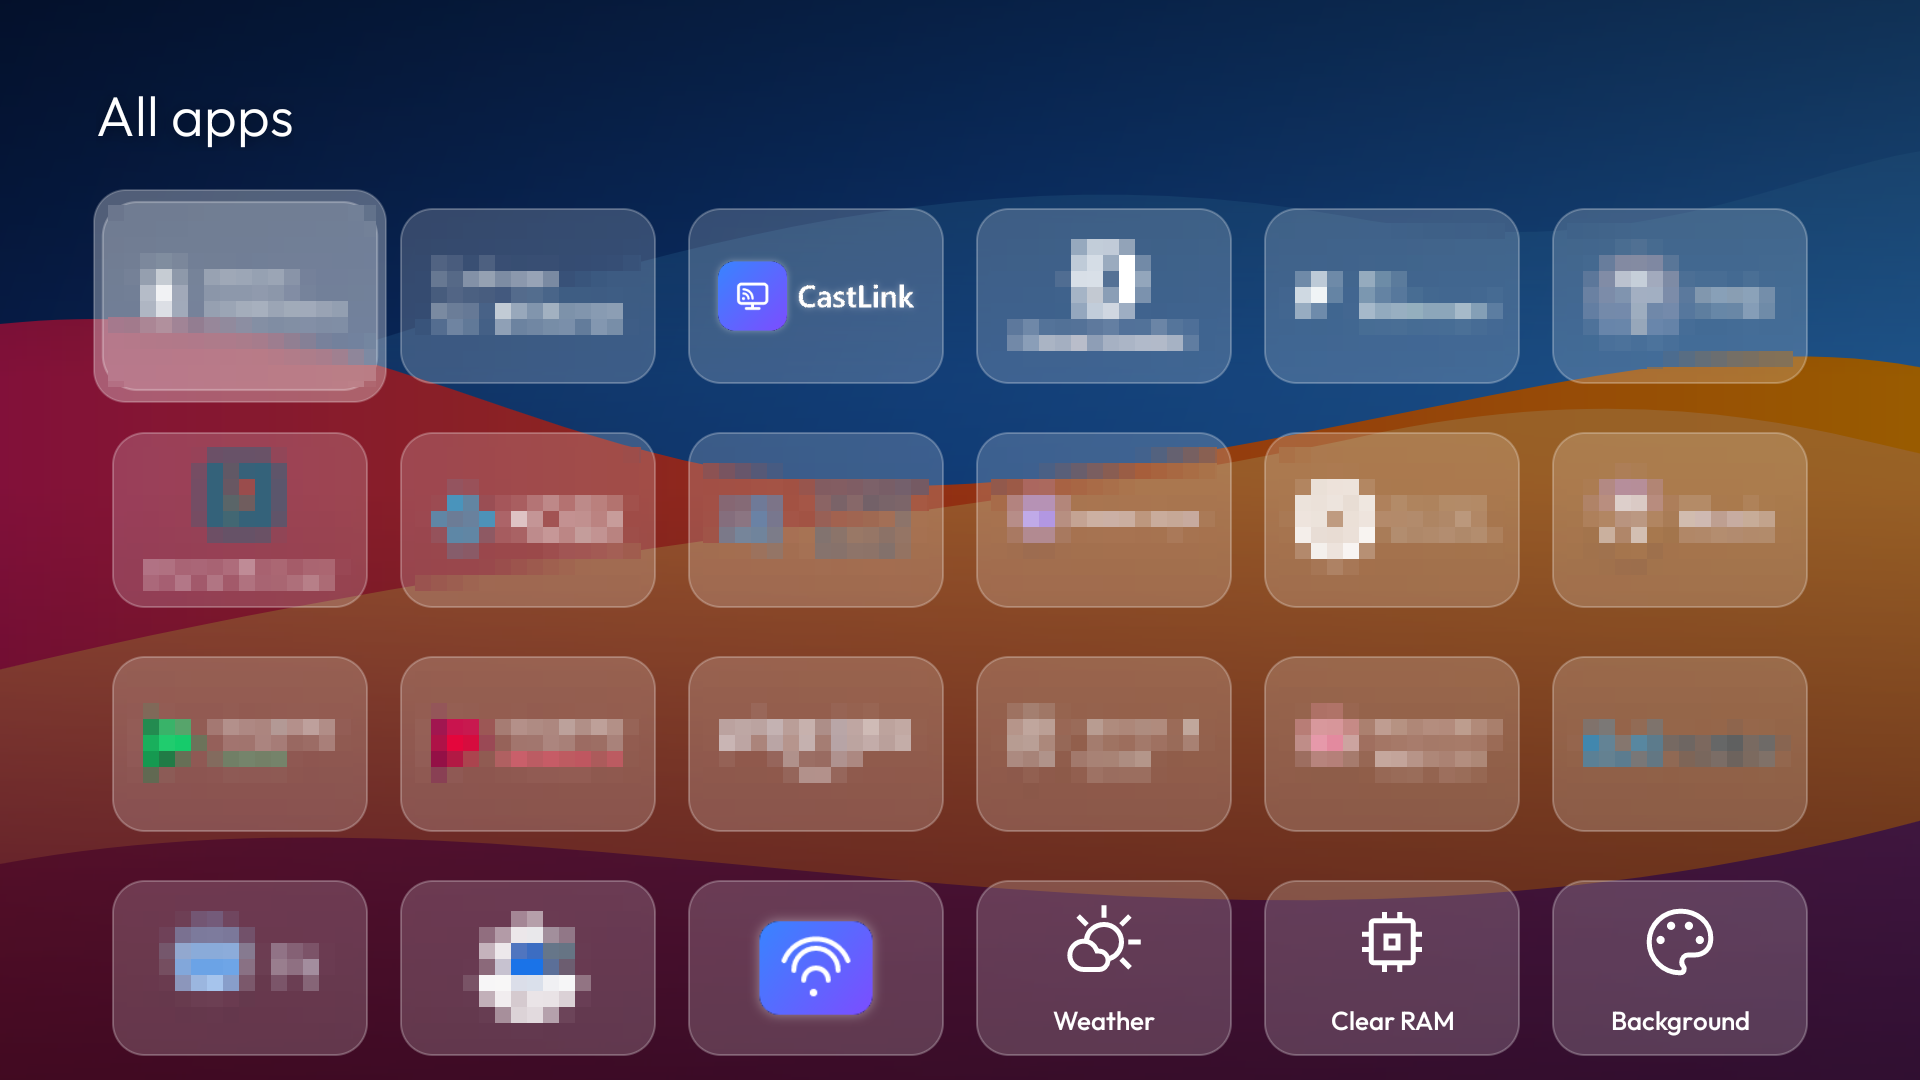
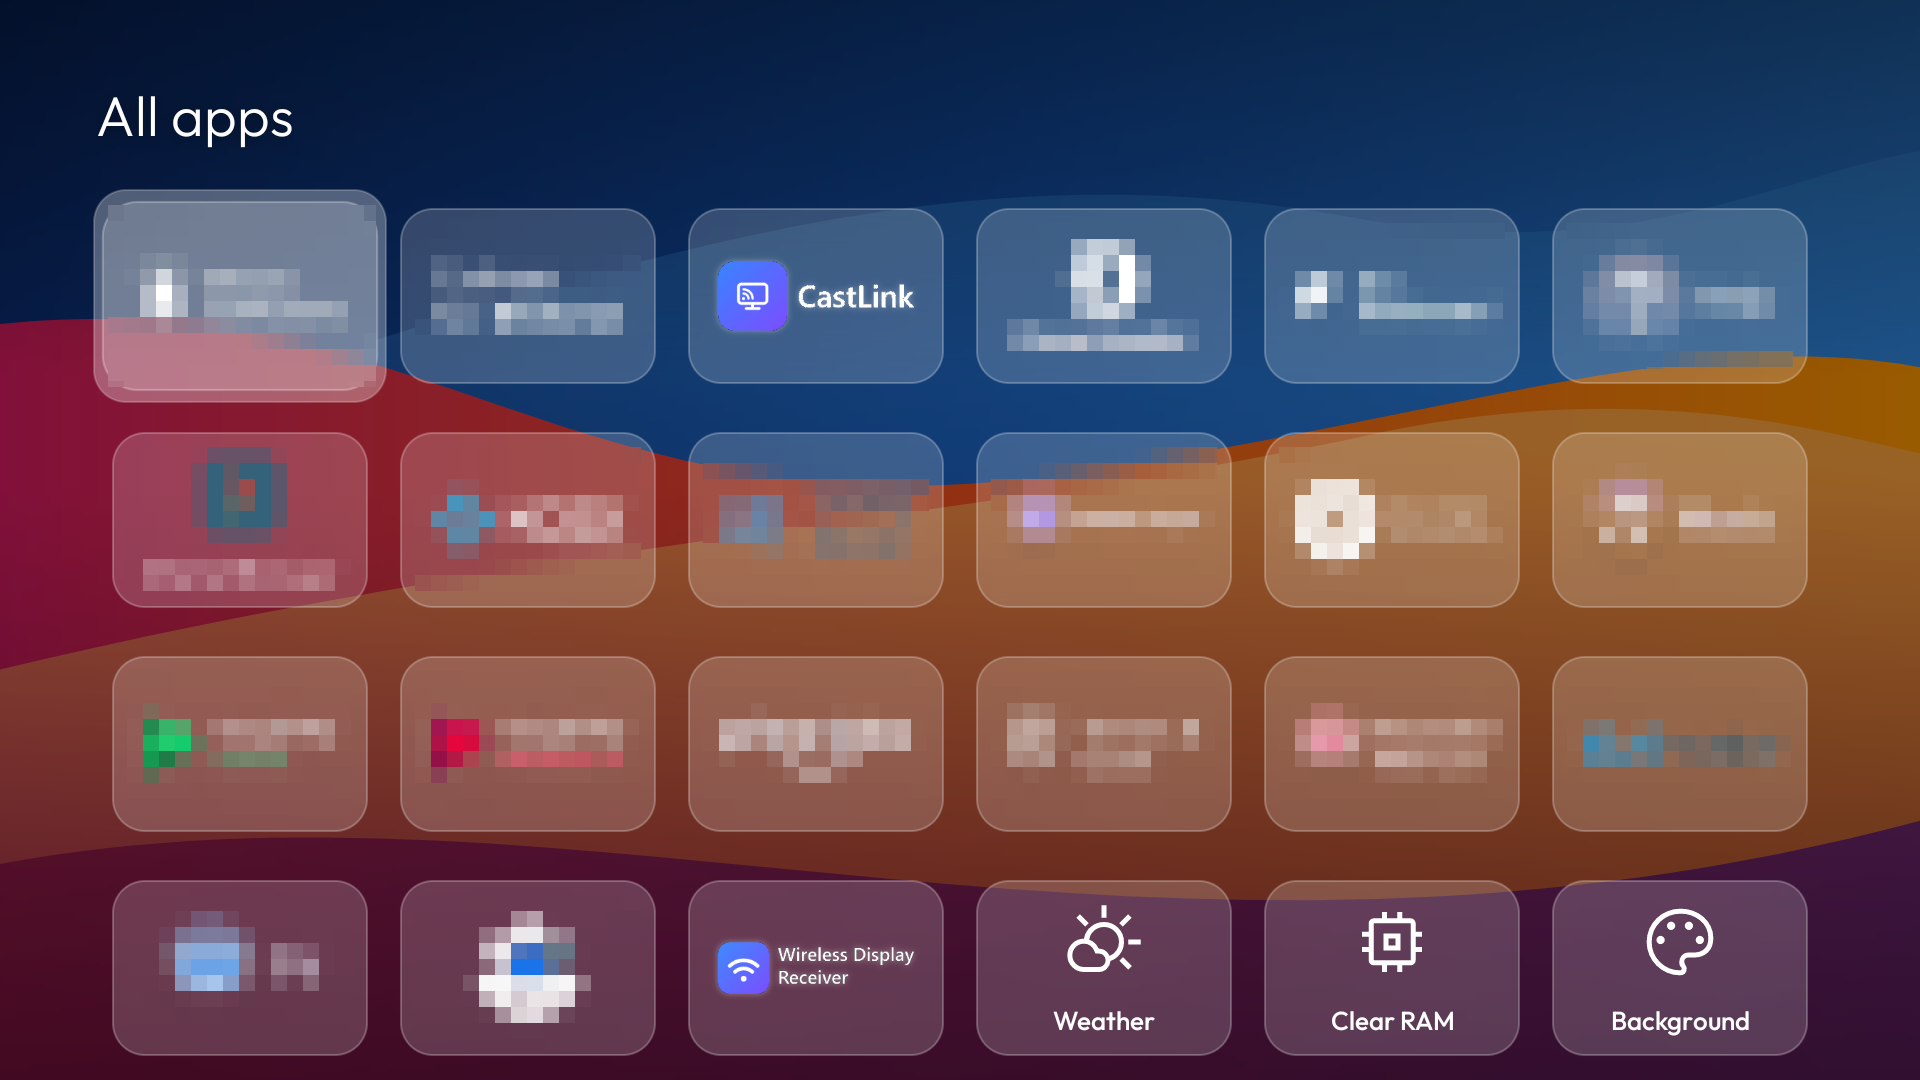
README: All apps picture with the new Wireless Display Receiver tile

Changed region(s): [[0.375, 0.825, 0.4688, 0.9472]]

diff --git a/README.md b/README.md
@@ -78,7 +78,7 @@ The PC on an iPad or a Mac, in Safari.
 <table>
 <tr>
 <td width="50%" align="center"><img src="docs/images/launcher-home.png" alt="TV Launcher home screen: greeting, clock, date, weather and two 2×2 blocks of apps on a wave background"><br><sub><b>TV Launcher:</b> clock, weather, your apps</sub></td>
-<td width="50%" align="center"><img src="docs/images/launcher-apps.png" alt="TV Launcher All apps page with app logos on glass tiles"><br><sub><b>All apps,</b> with the weather, Clear RAM and background tiles</sub></td>
+<td width="50%" align="center"><img src="docs/images/launcher-apps.png" alt="TV Launcher All apps page with app logos on glass tiles"><br><sub><b>All apps,</b> with CastLink, Wireless Display Receiver and the weather, Clear RAM and background tiles</sub></td>
 </tr>
 <tr>
 <td colspan="2" align="center"><img src="docs/images/tv-waiting.png" width="720" alt="CastLink on the TV waiting for a connection, with the remote and remote-typing help"><br><sub><b>CastLink on the TV:</b> waiting for the phone or PC, with the remote keys and typing with the number keys</sub></td>
